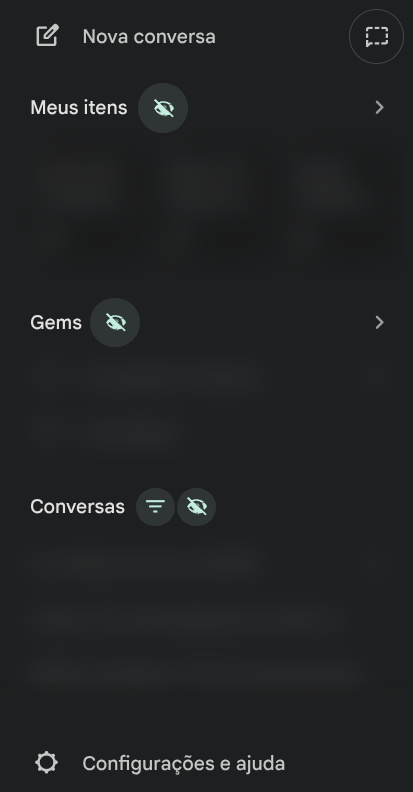
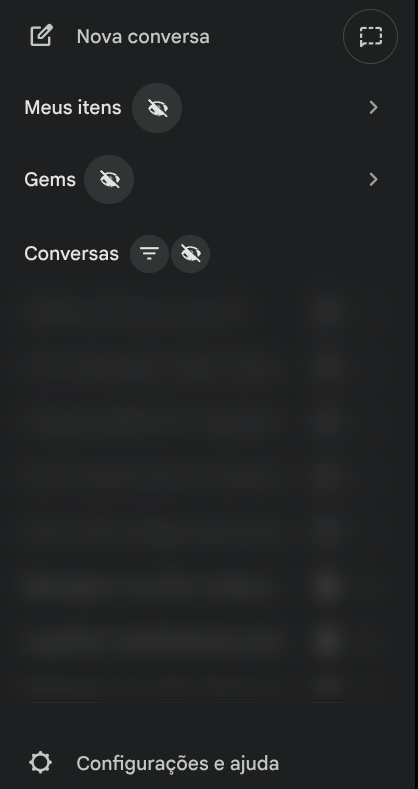
Atualiza README e altera visibilidade de itens da sidebar
- Atualiza documentação sobre botões de modelos rápidos e estrutura
- Ajusta guia de configurações para nova interface do popup
- Altera método de ocultar Gems e Meus Itens de blur para display none

diff --git a/styles.css b/styles.css
@@ -1,4 +1,4 @@
-/* ============ CONTROLES INJETADOS ============ */
+/* ============ CONTROLES ALTERADOS ============ */
 
 .gemini-history-controls {
   display: inline-flex;
@@ -76,27 +76,15 @@ body.gemini-history-limited .conversations-container>.conversation-items-contain
 
 /* 2. MEUS ITENS */
 body.gemini-my-items-hidden my-stuff-recents-preview {
-  filter: blur(10px) !important;
-  pointer-events: none !important;
-  user-select: none !important;
-  opacity: 0.3 !important;
-  max-height: 80px !important;
-  overflow: hidden !important;
-  transition: all 0.3s ease !important;
+  display: none !important;
 }
 
 /* 3. GEMS */
 body.gemini-gems-hidden .gemini-gems-list-container {
-  filter: blur(10px) !important;
-  pointer-events: none !important;
-  user-select: none !important;
-  opacity: 0.3 !important;
-  max-height: 80px !important;
-  overflow: hidden !important;
-  transition: all 0.3s ease !important;
+  display: none !important;
 }
 
-/* Ajustes específicos para botões de injeção */
+/* Ajustes específicos para botões */
 .gemini-my-items-controls,
 .gemini-gems-controls {
   margin-left: 8px;
@@ -161,21 +149,22 @@ body.gemini-ext-enabled .input-area-switch {
 body.gemini-ext-enabled.gemini-hide-greeting h1.gds-headline-s,
 body.gemini-ext-enabled.gemini-hide-greeting .primary-message-visible,
 body.gemini-ext-enabled.gemini-hide-greeting vkb-greeting {
-    display: none !important;
+  display: none !important;
 }
 
 body.gemini-ext-enabled.gemini-hide-welcome h1.gds-display-s,
 body.gemini-ext-enabled.gemini-hide-welcome .message-text,
 body.gemini-ext-enabled.gemini-hide-welcome .subtitle {
-    display: none !important;
+  display: none !important;
 }
 
 body.gemini-ext-enabled.gemini-hide-prompts .card-zero-state,
 body.gemini-ext-enabled.gemini-hide-prompts intent-card,
 body.gemini-ext-enabled.gemini-hide-prompts .cards-container,
 body.gemini-ext-enabled.gemini-hide-prompts zero-state-suggestions {
-    display: none !important;
+  display: none !important;
 }
+
 /* Esconde apenas o botão de enviar, não o de stop */
 /* O botão de stop tem o ícone 'stop' enquanto o de enviar tem 'send' */
 body.gemini-ext-enabled .gemini-hidden-send-button:has([data-mat-icon-name="send"]) {

diff --git a/src/states/state.js b/src/states/state.js
@@ -108,7 +108,7 @@ chrome.storage.onChanged.addListener((changes) => {
         if (featureHistoryLimitEnabled) stateHistoryLimited = true;
         if (typeof applyVisualOneShot === 'function') applyVisualOneShot();
 
-        // Re-inject controls to update buttons (since layout might change)
+        // Re-add controls to update buttons (since layout might change)
         const controls = document.querySelector('.gemini-history-controls');
         if (controls) controls.remove();
         if (featureHistoryEnabled && typeof addLimitChatsControl === 'function') addLimitChatsControl();

diff --git a/src/features/HideGems.js b/src/features/HideGems.js
@@ -11,7 +11,7 @@ function addGemsControls() {
     if (gemsTextNode) {
         const parent = gemsTextNode.parentElement;
 
-        // Verifica se já injetamos (no parent ou siblings)
+        // Verifica se já adicionamos (no parent ou siblings)
         if (parent.querySelector('.gemini-gems-controls') ||
             (parent.nextElementSibling && parent.nextElementSibling.classList.contains('gemini-gems-controls'))) {
             return;

diff --git a/src/features/DeleteChat.js b/src/features/DeleteChat.js
@@ -10,7 +10,7 @@ function addDeleteChatButtons() {
     const conversationContainers = ChatList.getConversationContainers();
 
     conversationContainers.forEach(container => {
-        // Verifica se já injetamos o botão neste container
+        // Verifica se já adicionamos o botão neste container
         if (container.querySelector('.gemini-quick-delete-btn')) return;
 
         // Encontra o link da conversa usando PageObject

diff --git a/README.md b/README.md
@@ -15,6 +15,8 @@ Extensão do Chrome para personalizar a interface do **Google Gemini** com contr
   - 🧠 **Raciocínio** - Melhor para tarefas complexas
   - 💎 **Pro** - Modelo mais avançado
 
+> Modelos são acessíveis diretamente por botões (sem menu dropdown) e o status do último modelo utilizado é salvo e restaurado automaticamente ao retornar à página.
+
 ### 🔒 Controles de Privacidade (Blur/Censura)
 
 ![Controles de Privacidade](screenshots/blurPreview.png)
@@ -41,7 +43,6 @@ Oculta seções da sidebar com efeito de blur para maior privacidade:
 - Adiciona um **botão de lixeira** ao lado de cada conversa.
 - Permite excluir conversas rapidamente sem confirmação manual (o fluxo é automatizado).
 - **Menu sempre visível**: Tanto a lixeira quanto o menu de 3 pontos ficam fixos, facilitando o acesso.
-- Layout adaptativo que evita sobreposição do texto.
 - Cores de ícones adaptadas para tema Claro e Escuro.
 
 ---
@@ -61,18 +62,18 @@ Oculta seções da sidebar com efeito de blur para maior privacidade:
 ```
 geminiExtension/
 ├── manifest.json      # Configurações da extensão
-├── content.js         # Script injetado no Gemini
-├── styles.css         # Estilos CSS (blur, botões, etc.)
 ├── popup.html         # Interface do popup de configurações
 ├── popup.js           # Lógica do popup
+├── styles.css         # Estilos CSS globais
+├── src/               # Código fonte modularizado
+│   ├── config/        # Configurações e constantes
+│   ├── features/      # Funcionalidades (Botões, Sidebar, etc)
+│   ├── pageObjects/   # Seletores e abstração do DOM
+│   ├── states/        # Gerenciamento de estado
+│   └── utils/         # Funções utilitárias
 ├── README.md          # Este arquivo
-├── screenshots/       # Imagens de preview da extensão
-│   ├── blurPreview.png
-│   ├── buttonsPreview.png
-│   ├── modalPreview.png
-│   └── fastDeletePreview.png
-└── docs/
-    └── GEMINI_DOM_STRUCTURE.md  # Documentação da estrutura HTML do Gemini
+├── screenshots/       # Imagens de preview
+└── docs/              # Documentação técnica
 ```
 
 ---
@@ -81,17 +82,26 @@ geminiExtension/
 
 ![Popup de Configurações](screenshots/modalPreview.png)
 
-Clique no ícone da extensão para acessar as configurações:
+No topo do popup, você encontra botões de **Ação Rápida**:
+- **Padrão**: Restaura as configurações originais da extensão.
+- **Desligar Tudo**: Desativa todas as funcionalidades.
+- **Ligar Tudo**: Ativa todas as funcionalidades.
 
-| Opção | Descrição | Padrão |
-|-------|-----------|--------|
-| Extensão Ativada | Liga/desliga toda a extensão | ✅ Ativo |
-| Ocultar Meus Itens | Aplica blur na seção "Meus Itens" | ✅ Ativo |
-| Ocultar Gems | Aplica blur na seção "Gems" | ✅ Ativo |
-| Ocultar Histórico | Aplica blur no histórico de conversas | ✅ Ativo |
-| Limitar a 5 | Mostra apenas 5 conversas, blur nas demais | ✅ Ativo |
-| Exclusão Rápida | Botão de lixeira para deletar sem confirmação | ✅ Ativo |
-| Menu Sempre Visível | Mantém os 3 pontos sempre visíveis | ✅ Ativo |
+Abaixo, as opções detalhadas:
+
+| categoria | Opção | Descrição |
+|-----------|-------|-----------|
+| **Geral** | Botões Alternativos | Ativa os botões de troca rápida de modelo no topo |
+| | Iniciar Sidebar Fechada | Fecha a sidebar automaticamente ao carregar a página |
+| **Clean UI** | Esconder Saudação | Remove a mensagem "Olá, usuário" |
+| | Esconder Boas-vindas | Remove o texto de boas-vindas inicial |
+| | Esconder Sugestões | Remove os cards de sugestão de prompts |
+| **Visibilidade**| Esconder Histórico | Aplica blur/oculta a lista de conversas recentes |
+| | Limitar Histórico (5) | Exibe apenas os 5 itens mais recentes |
+| | Esconder Meus Itens | Oculta a seção "Meus Itens" |
+| | Esconder Gems | Oculta a seção "Gems" |
+| **Produtividade**| Exclusão Rápida | Adiciona ícone de lixeira para deletar sem confirmação |
+| | Menu Sempre Visível | Mantém o menu (3 pontos) sempre visível, sem precisar de hover |
 
 ---
 

diff --git a/docs/GEMINI_DOM_STRUCTURE.md b/docs/GEMINI_DOM_STRUCTURE.md
@@ -32,7 +32,7 @@ A sidebar do Gemini contém as seguintes seções principais:
   <side-nav-entry-button>
     <button>
       <span>Meus itens</span>
-      <!-- Aqui injetamos .gemini-my-items-controls -->
+      <!-- Aqui adicionamos .gemini-my-items-controls -->
     </button>
   </side-nav-entry-button>
   
@@ -54,7 +54,7 @@ A sidebar do Gemini contém as seguintes seções principais:
   <side-nav-entry-button>
     <button>
       <span>Gems</span>
-      <!-- Aqui injetamos .gemini-gems-controls -->
+      <!-- Aqui adicionamos .gemini-gems-controls -->
     </button>
   </side-nav-entry-button>
   
@@ -80,7 +80,7 @@ Esta é a seção mais complexa:
   <!-- Título "Conversas" -->
   <div class="conversations-subtitle">
     <span>Conversas</span>
-    <!-- Aqui injetamos .gemini-history-controls (botões de olho e filtro) -->
+    <!-- Aqui adicionamos .gemini-history-controls (botões de olho e filtro) -->
   </div>
   
   <!-- Container principal das conversas -->
